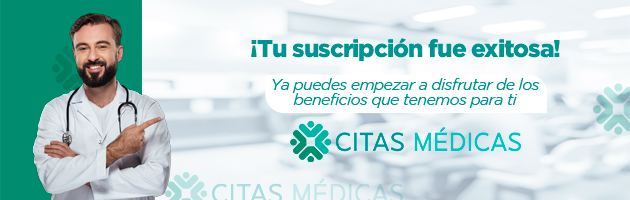
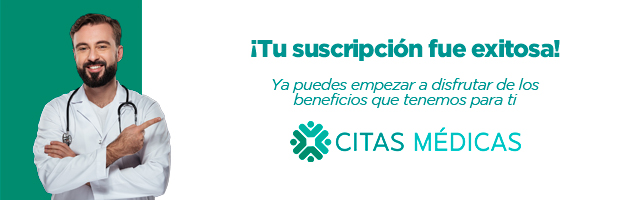
imagenes de emails

diff --git a/app/Http/Controllers/RedeemedServiceController.php b/app/Http/Controllers/RedeemedServiceController.php
@@ -298,7 +298,7 @@ class RedeemedServiceController extends Controller
             $mail->CharSet = "UTF8";
             $mail->Subject = "Beneficio Redimido";
 
-            $mail->AddEmbeddedImage($_SERVER['DOCUMENT_ROOT'].'/app/public/images/BannerMailing.jpg', 'img_header', '/images/BannerMailing.jpg', 'base64', 'image/jpg');
+            $mail->AddEmbeddedImage($_SERVER['DOCUMENT_ROOT'].'/app/public/images/redimidosuccces.jpg', 'img_header', '/images/redimidosuccces.jpg', 'base64', 'image/jpg');
             $mail->AddEmbeddedImage($_SERVER['DOCUMENT_ROOT'].'/app/public/images/icons/facebook.png', "correo_facebook", '/images/icons/facebook.png', 'base64', 'image/png');
             $mail->AddEmbeddedImage($_SERVER['DOCUMENT_ROOT'].'/app/public/images/icons/instagram.png', "correo_instagram", '/images/icons/instagram.png', 'base64', 'image/png');
             // $mail->AddEmbeddedImage("images/icons/correo_whatsapp.png", "correo_whatsapp");
